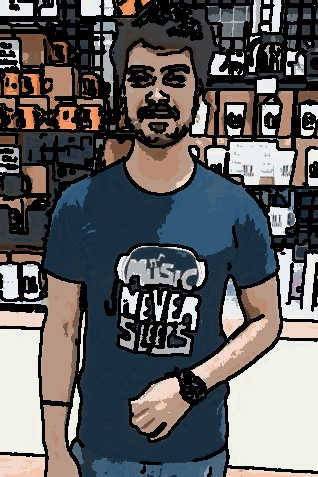
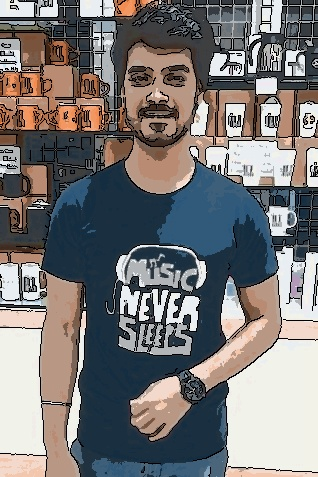
changed k value

diff --git a/catoonizer.py b/catoonizer.py
@@ -11,7 +11,11 @@ def makecartoon(img):
 
     useses bilaterral blur, canny edge detection, k-means clustering
     '''
-    kernal = np.ones((3, 3), np.uint8)
+    if max(img.shape) > 720:
+        scale = 720 / max(img.shape)
+        img = cv2.resize(
+            img, (int(img.shape[1] * scale), int(img.shape[0] * scale)))
+    kernal = np.ones((7, 7), np.uint8)
     # img = cv2.medianBlur(img, 1)
     out = blurring(img,)
     edge = edge_detection(out)
